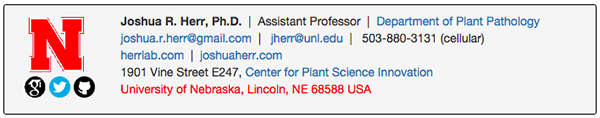
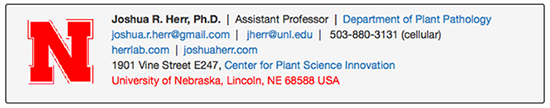
updated signature

Changed region(s): [[0.0, 0.0278, 1.0, 1.0]]

diff --git a/signature.html b/signature.html
@@ -15,7 +15,7 @@
         <div class="row">
             <div class="col-md-12">
                 <div class="col-md-2">
-                    <a href="http://www.unl.edu/"><img src="https://raw.githubusercontent.com/jrherr/email_signature/master/images/University_of_Nebraska_Lincoln_Logo-72x72.png" vspace="5" hspace="5" height="65" width="65"></a> <a href="https://scholar.google.com/citations?user=ZDnMer4AAAAJ&hl=en"><img class="image image-2" src="https://raw.githubusercontent.com/jrherr/email_signature/master/images/google-scholar-34x33.png" data-rimage="" data-src="images/google-scholar-34x33.png" height="25" width="25"></a> <a href="https://twitter.com/number_three"><img class="image image-3" src="https://raw.githubusercontent.com/jrherr/email_signature/master/images/twitter-33x33.png" data-rimage="" data-src="images/twitter-33x33.png height=" width="25"></a> <a href="https://github.com/jrherr"><img class="image image-4" src="https://raw.githubusercontent.com/jrherr/email_signature/master/images/github-33x33.png" data-rimage="" data-src="images/github-33x33.png height=" width="25"></br></a>
+                    <a href="http://www.unl.edu/"><img src="https://raw.githubusercontent.com/jrherr/email_signature/master/images/University_of_Nebraska_Lincoln_Logo-72x72.png" vspace="10" hspace="4" height="85" width="85"></a> <!--<a href="https://scholar.google.com/citations?user=ZDnMer4AAAAJ&hl=en"><img class="image image-2" src="https://raw.githubusercontent.com/jrherr/email_signature/master/images/google-scholar-34x33.png" data-rimage="" data-src="images/google-scholar-34x33.png" height="25" width="25"></a> <a href="https://twitter.com/number_three"><img class="image image-3" src="https://raw.githubusercontent.com/jrherr/email_signature/master/images/twitter-33x33.png" data-rimage="" data-src="images/twitter-33x33.png height=" width="25"></a> <a href="https://github.com/jrherr"><img class="image image-4" src="https://raw.githubusercontent.com/jrherr/email_signature/master/images/github-33x33.png" data-rimage="" data-src="images/github-33x33.png height=" width="25"></br></a>-->
                 </div>
                 <div class="col-md-10">
                     <p><b>Joshua R. Herr, Ph.D.</b> &nbsp;| &nbsp;Assistant Professor &nbsp;| &nbsp;<a href="http://plantpathology.unl.edu/">Department of Plant Pathology</a><br>
